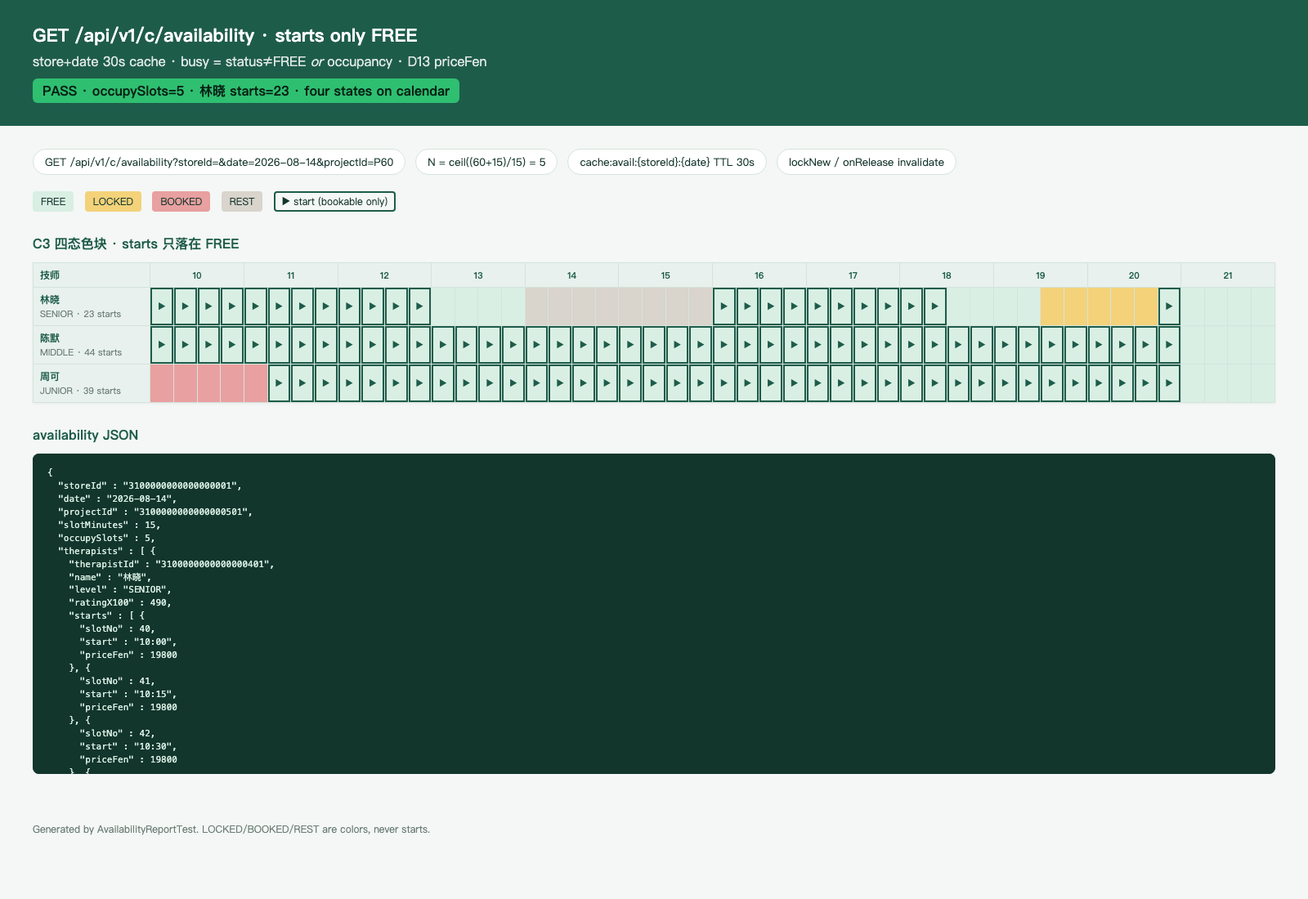
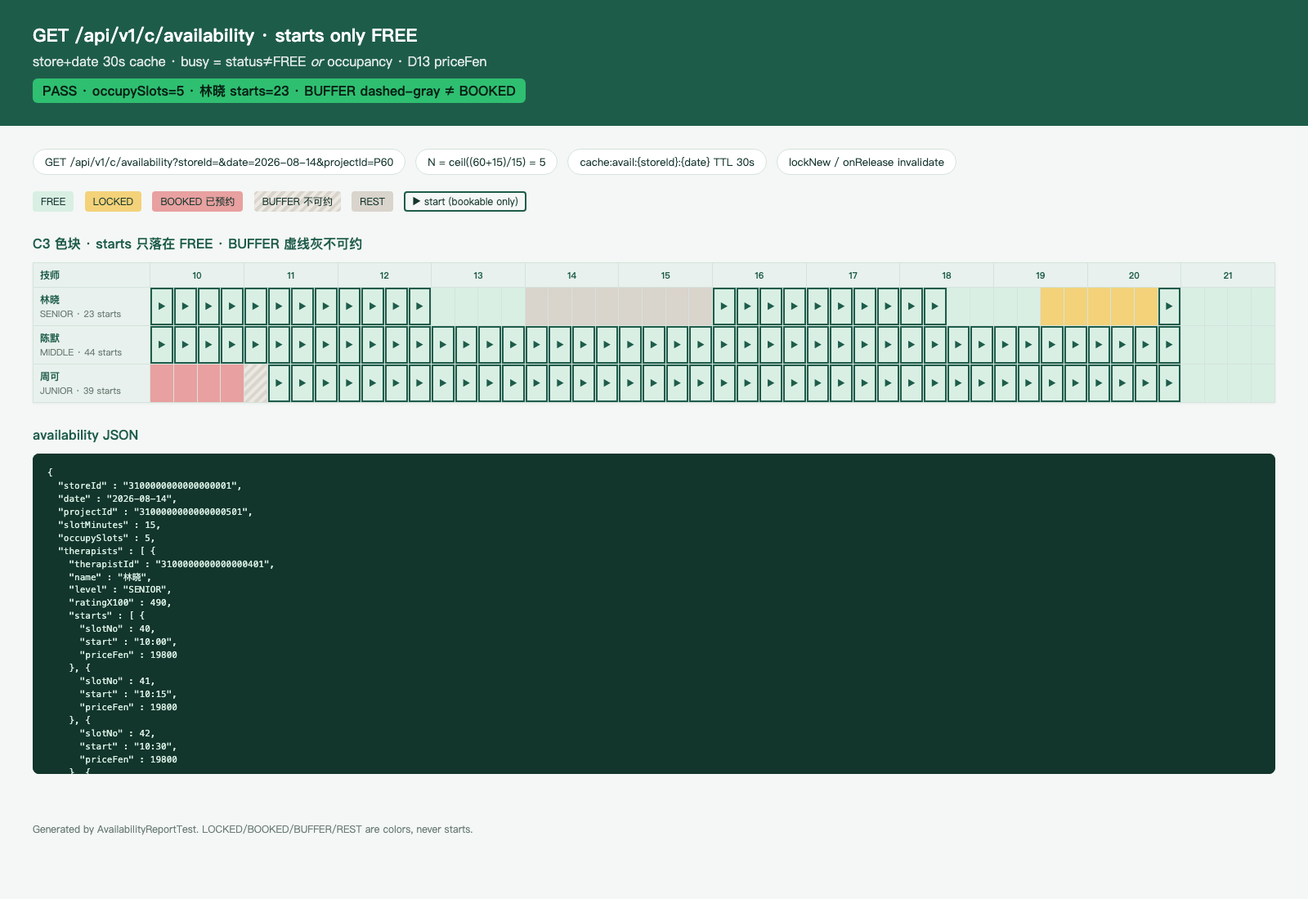
fix: address review feedback for feat(inventory): availability
Cache-aside: invalidate bumps a per-key generation so an in-flight miss
cannot put a pre-lock snapshot back. BUFFER stays BUFFER (dashed-gray
不可约), never remapped to BOOKED.

diff --git a/docs/test-cases/pr-3d-availability.html b/docs/test-cases/pr-3d-availability.html
@@ -29,6 +29,8 @@
     td.locked { background:#f3d27a; }
     td.booked { background:#e8a0a0; }
     td.rest { background:#d9d4cc; }
+    td.buffer { background:repeating-linear-gradient(135deg,#d9d4cc 0 4px,#ece8e2 4px 8px);
+                color:#6b7c75; }
     td.start { box-shadow:inset 0 0 0 2px #1E5C4A; font-weight:700; color:#1E5C4A; }
     .legend span { display:inline-block; padding:4px 10px; margin-right:8px;
                    border-radius:4px; font-size:12px; }
@@ -36,6 +38,7 @@
     .legend .locked { background:#f3d27a; }
     .legend .booked { background:#e8a0a0; }
     .legend .rest { background:#d9d4cc; }
+    .legend .buffer { background:repeating-linear-gradient(135deg,#d9d4cc 0 4px,#ece8e2 4px 8px); }
     .legend .start { box-shadow:inset 0 0 0 2px #1E5C4A; }
     pre { background:#12352c; color:#d9efe4; padding:16px 18px; border-radius:8px;
           overflow:auto; font-size:11px; line-height:1.45; max-height:360px; }
@@ -46,7 +49,7 @@
   <header>
     <h1>GET /api/v1/c/availability · starts only FREE</h1>
     <p>store+date 30s cache · busy = status≠FREE <em>or</em> occupancy · D13 priceFen</p>
-    <span class="badge">PASS · occupySlots=5 · 林晓 starts=23 · four states on calendar</span>
+    <span class="badge">PASS · occupySlots=5 · 林晓 starts=23 · BUFFER dashed-gray ≠ BOOKED</span>
   </header>
   <main>
     <div class="meta">
@@ -58,11 +61,12 @@
     <p class="legend">
       <span class="free">FREE</span>
       <span class="locked">LOCKED</span>
-      <span class="booked">BOOKED</span>
+      <span class="booked">BOOKED 已预约</span>
+      <span class="buffer">BUFFER 不可约</span>
       <span class="rest">REST</span>
       <span class="start">▶ start (bookable only)</span>
     </p>
-    <h2>C3 四态色块 · starts 只落在 FREE</h2>
+    <h2>C3 色块 · starts 只落在 FREE · BUFFER 虚线灰不可约</h2>
     <table class="cal">
       <thead>
         <tr><th>技师</th><th colspan='4'>10</th><th colspan='4'>11</th><th colspan='4'>12</th><th colspan='4'>13</th><th colspan='4'>14</th><th colspan='4'>15</th><th colspan='4'>16</th><th colspan='4'>17</th><th colspan='4'>18</th><th colspan='4'>19</th><th colspan='4'>20</th><th colspan='4'>21</th></tr>
@@ -70,7 +74,7 @@
       <tbody>
 <tr><th>林晓<br/><span class='sub'>SENIOR · 23 starts</span></th><td class='free start' title='40 FREE'>▶</td><td class='free start' title='41 FREE'>▶</td><td class='free start' title='42 FREE'>▶</td><td class='free start' title='43 FREE'>▶</td><td class='free start' title='44 FREE'>▶</td><td class='free start' title='45 FREE'>▶</td><td class='free start' title='46 FREE'>▶</td><td class='free start' title='47 FREE'>▶</td><td class='free start' title='48 FREE'>▶</td><td class='free start' title='49 FREE'>▶</td><td class='free start' title='50 FREE'>▶</td><td class='free start' title='51 FREE'>▶</td><td class='free' title='52 FREE'></td><td class='free' title='53 FREE'></td><td class='free' title='54 FREE'></td><td class='free' title='55 FREE'></td><td class='rest' title='56 REST'></td><td class='rest' title='57 REST'></td><td class='rest' title='58 REST'></td><td class='rest' title='59 REST'></td><td class='rest' title='60 REST'></td><td class='rest' title='61 REST'></td><td class='rest' title='62 REST'></td><td class='rest' title='63 REST'></td><td class='free start' title='64 FREE'>▶</td><td class='free start' title='65 FREE'>▶</td><td class='free start' title='66 FREE'>▶</td><td class='free start' title='67 FREE'>▶</td><td class='free start' title='68 FREE'>▶</td><td class='free start' title='69 FREE'>▶</td><td class='free start' title='70 FREE'>▶</td><td class='free start' title='71 FREE'>▶</td><td class='free start' title='72 FREE'>▶</td><td class='free start' title='73 FREE'>▶</td><td class='free' title='74 FREE'></td><td class='free' title='75 FREE'></td><td class='free' title='76 FREE'></td><td class='free' title='77 FREE'></td><td class='locked' title='78 LOCKED'></td><td class='locked' title='79 LOCKED'></td><td class='locked' title='80 LOCKED'></td><td class='locked' title='81 LOCKED'></td><td class='locked' title='82 LOCKED'></td><td class='free start' title='83 FREE'>▶</td><td class='free' title='84 FREE'></td><td class='free' title='85 FREE'></td><td class='free' title='86 FREE'></td><td class='free' title='87 FREE'></td></tr>
 <tr><th>陈默<br/><span class='sub'>MIDDLE · 44 starts</span></th><td class='free start' title='40 FREE'>▶</td><td class='free start' title='41 FREE'>▶</td><td class='free start' title='42 FREE'>▶</td><td class='free start' title='43 FREE'>▶</td><td class='free start' title='44 FREE'>▶</td><td class='free start' title='45 FREE'>▶</td><td class='free start' title='46 FREE'>▶</td><td class='free start' title='47 FREE'>▶</td><td class='free start' title='48 FREE'>▶</td><td class='free start' title='49 FREE'>▶</td><td class='free start' title='50 FREE'>▶</td><td class='free start' title='51 FREE'>▶</td><td class='free start' title='52 FREE'>▶</td><td class='free start' title='53 FREE'>▶</td><td class='free start' title='54 FREE'>▶</td><td class='free start' title='55 FREE'>▶</td><td class='free start' title='56 FREE'>▶</td><td class='free start' title='57 FREE'>▶</td><td class='free start' title='58 FREE'>▶</td><td class='free start' title='59 FREE'>▶</td><td class='free start' title='60 FREE'>▶</td><td class='free start' title='61 FREE'>▶</td><td class='free start' title='62 FREE'>▶</td><td class='free start' title='63 FREE'>▶</td><td class='free start' title='64 FREE'>▶</td><td class='free start' title='65 FREE'>▶</td><td class='free start' title='66 FREE'>▶</td><td class='free start' title='67 FREE'>▶</td><td class='free start' title='68 FREE'>▶</td><td class='free start' title='69 FREE'>▶</td><td class='free start' title='70 FREE'>▶</td><td class='free start' title='71 FREE'>▶</td><td class='free start' title='72 FREE'>▶</td><td class='free start' title='73 FREE'>▶</td><td class='free start' title='74 FREE'>▶</td><td class='free start' title='75 FREE'>▶</td><td class='free start' title='76 FREE'>▶</td><td class='free start' title='77 FREE'>▶</td><td class='free start' title='78 FREE'>▶</td><td class='free start' title='79 FREE'>▶</td><td class='free start' title='80 FREE'>▶</td><td class='free start' title='81 FREE'>▶</td><td class='free start' title='82 FREE'>▶</td><td class='free start' title='83 FREE'>▶</td><td class='free' title='84 FREE'></td><td class='free' title='85 FREE'></td><td class='free' title='86 FREE'></td><td class='free' title='87 FREE'></td></tr>
-<tr><th>周可<br/><span class='sub'>JUNIOR · 39 starts</span></th><td class='booked' title='40 BOOKED'></td><td class='booked' title='41 BOOKED'></td><td class='booked' title='42 BOOKED'></td><td class='booked' title='43 BOOKED'></td><td class='booked' title='44 BOOKED'></td><td class='free start' title='45 FREE'>▶</td><td class='free start' title='46 FREE'>▶</td><td class='free start' title='47 FREE'>▶</td><td class='free start' title='48 FREE'>▶</td><td class='free start' title='49 FREE'>▶</td><td class='free start' title='50 FREE'>▶</td><td class='free start' title='51 FREE'>▶</td><td class='free start' title='52 FREE'>▶</td><td class='free start' title='53 FREE'>▶</td><td class='free start' title='54 FREE'>▶</td><td class='free start' title='55 FREE'>▶</td><td class='free start' title='56 FREE'>▶</td><td class='free start' title='57 FREE'>▶</td><td class='free start' title='58 FREE'>▶</td><td class='free start' title='59 FREE'>▶</td><td class='free start' title='60 FREE'>▶</td><td class='free start' title='61 FREE'>▶</td><td class='free start' title='62 FREE'>▶</td><td class='free start' title='63 FREE'>▶</td><td class='free start' title='64 FREE'>▶</td><td class='free start' title='65 FREE'>▶</td><td class='free start' title='66 FREE'>▶</td><td class='free start' title='67 FREE'>▶</td><td class='free start' title='68 FREE'>▶</td><td class='free start' title='69 FREE'>▶</td><td class='free start' title='70 FREE'>▶</td><td class='free start' title='71 FREE'>▶</td><td class='free start' title='72 FREE'>▶</td><td class='free start' title='73 FREE'>▶</td><td class='free start' title='74 FREE'>▶</td><td class='free start' title='75 FREE'>▶</td><td class='free start' title='76 FREE'>▶</td><td class='free start' title='77 FREE'>▶</td><td class='free start' title='78 FREE'>▶</td><td class='free start' title='79 FREE'>▶</td><td class='free start' title='80 FREE'>▶</td><td class='free start' title='81 FREE'>▶</td><td class='free start' title='82 FREE'>▶</td><td class='free start' title='83 FREE'>▶</td><td class='free' title='84 FREE'></td><td class='free' title='85 FREE'></td><td class='free' title='86 FREE'></td><td class='free' title='87 FREE'></td></tr>
+<tr><th>周可<br/><span class='sub'>JUNIOR · 39 starts</span></th><td class='booked' title='40 BOOKED'></td><td class='booked' title='41 BOOKED'></td><td class='booked' title='42 BOOKED'></td><td class='booked' title='43 BOOKED'></td><td class='buffer' title='44 BUFFER'></td><td class='free start' title='45 FREE'>▶</td><td class='free start' title='46 FREE'>▶</td><td class='free start' title='47 FREE'>▶</td><td class='free start' title='48 FREE'>▶</td><td class='free start' title='49 FREE'>▶</td><td class='free start' title='50 FREE'>▶</td><td class='free start' title='51 FREE'>▶</td><td class='free start' title='52 FREE'>▶</td><td class='free start' title='53 FREE'>▶</td><td class='free start' title='54 FREE'>▶</td><td class='free start' title='55 FREE'>▶</td><td class='free start' title='56 FREE'>▶</td><td class='free start' title='57 FREE'>▶</td><td class='free start' title='58 FREE'>▶</td><td class='free start' title='59 FREE'>▶</td><td class='free start' title='60 FREE'>▶</td><td class='free start' title='61 FREE'>▶</td><td class='free start' title='62 FREE'>▶</td><td class='free start' title='63 FREE'>▶</td><td class='free start' title='64 FREE'>▶</td><td class='free start' title='65 FREE'>▶</td><td class='free start' title='66 FREE'>▶</td><td class='free start' title='67 FREE'>▶</td><td class='free start' title='68 FREE'>▶</td><td class='free start' title='69 FREE'>▶</td><td class='free start' title='70 FREE'>▶</td><td class='free start' title='71 FREE'>▶</td><td class='free start' title='72 FREE'>▶</td><td class='free start' title='73 FREE'>▶</td><td class='free start' title='74 FREE'>▶</td><td class='free start' title='75 FREE'>▶</td><td class='free start' title='76 FREE'>▶</td><td class='free start' title='77 FREE'>▶</td><td class='free start' title='78 FREE'>▶</td><td class='free start' title='79 FREE'>▶</td><td class='free start' title='80 FREE'>▶</td><td class='free start' title='81 FREE'>▶</td><td class='free start' title='82 FREE'>▶</td><td class='free start' title='83 FREE'>▶</td><td class='free' title='84 FREE'></td><td class='free' title='85 FREE'></td><td class='free' title='86 FREE'></td><td class='free' title='87 FREE'></td></tr>
       </tbody>
     </table>
     <h2>availability JSON</h2>
@@ -927,7 +931,7 @@
     }, {
       "slotNo" : 44,
       "start" : "11:00",
-      "state" : "BOOKED"
+      "state" : "BUFFER"
     }, {
       "slotNo" : 45,
       "start" : "11:15",
@@ -1104,6 +1108,6 @@
   } ]
 }</pre>
   </main>
-  <footer>Generated by AvailabilityReportTest. LOCKED/BOOKED/REST are colors, never starts.</footer>
+  <footer>Generated by AvailabilityReportTest. LOCKED/BOOKED/BUFFER/REST are colors, never starts.</footer>
 </body>
 </html>

diff --git a/server/src/test/java/com/jisuodashi/inventory/AvailabilityReportTest.java b/server/src/test/java/com/jisuodashi/inventory/AvailabilityReportTest.java
@@ -45,7 +45,7 @@ class AvailabilityReportTest {
                 .map(AvailabilityDtos.Block::state)
                 .distinct()
                 .toList())
-                .contains(SlotStatus.FREE, SlotStatus.LOCKED, SlotStatus.BOOKED, SlotStatus.REST);
+                .contains(SlotStatus.FREE, SlotStatus.LOCKED, SlotStatus.BOOKED, SlotStatus.REST, SlotStatus.BUFFER);
 
         ObjectMapper json = new ObjectMapper().enable(SerializationFeature.INDENT_OUTPUT);
         String pretty = json.writeValueAsString(body);
@@ -60,7 +60,7 @@ class AvailabilityReportTest {
         Files.createDirectories(resolveTargetDir());
         Files.writeString(resolveTargetDir().resolve("pr-3d-availability.html"), html, StandardCharsets.UTF_8);
         assertThat(report).exists();
-        assertThat(html).contains("FREE").contains("LOCKED").contains("BOOKED").contains("REST");
+        assertThat(html).contains("FREE").contains("LOCKED").contains("BOOKED").contains("REST").contains("BUFFER");
         assertThat(html).contains("10:00").contains("20:45").contains("starts");
     }
 
@@ -131,6 +131,8 @@ class AvailabilityReportTest {
                     td.locked { background:#f3d27a; }
                     td.booked { background:#e8a0a0; }
                     td.rest { background:#d9d4cc; }
+                    td.buffer { background:repeating-linear-gradient(135deg,#d9d4cc 0 4px,#ece8e2 4px 8px);
+                                color:#6b7c75; }
                     td.start { box-shadow:inset 0 0 0 2px #1E5C4A; font-weight:700; color:#1E5C4A; }
                     .legend span { display:inline-block; padding:4px 10px; margin-right:8px;
                                    border-radius:4px; font-size:12px; }
@@ -138,6 +140,7 @@ class AvailabilityReportTest {
                     .legend .locked { background:#f3d27a; }
                     .legend .booked { background:#e8a0a0; }
                     .legend .rest { background:#d9d4cc; }
+                    .legend .buffer { background:repeating-linear-gradient(135deg,#d9d4cc 0 4px,#ece8e2 4px 8px); }
                     .legend .start { box-shadow:inset 0 0 0 2px #1E5C4A; }
                     pre { background:#12352c; color:#d9efe4; padding:16px 18px; border-radius:8px;
                           overflow:auto; font-size:11px; line-height:1.45; max-height:360px; }
@@ -148,7 +151,7 @@ class AvailabilityReportTest {
                   <header>
                     <h1>GET /api/v1/c/availability · starts only FREE</h1>
                     <p>store+date 30s cache · busy = status≠FREE <em>or</em> occupancy · D13 priceFen</p>
-                    <span class="badge">PASS · occupySlots=__N__ · 林晓 starts=__LIN__ · four states on calendar</span>
+                    <span class="badge">PASS · occupySlots=__N__ · 林晓 starts=__LIN__ · BUFFER dashed-gray ≠ BOOKED</span>
                   </header>
                   <main>
                     <div class="meta">
@@ -160,11 +163,12 @@ class AvailabilityReportTest {
                     <p class="legend">
                       <span class="free">FREE</span>
                       <span class="locked">LOCKED</span>
-                      <span class="booked">BOOKED</span>
+                      <span class="booked">BOOKED 已预约</span>
+                      <span class="buffer">BUFFER 不可约</span>
                       <span class="rest">REST</span>
                       <span class="start">▶ start (bookable only)</span>
                     </p>
-                    <h2>C3 四态色块 · starts 只落在 FREE</h2>
+                    <h2>C3 色块 · starts 只落在 FREE · BUFFER 虚线灰不可约</h2>
                     <table class="cal">
                       <thead>
                         <tr><th>技师</th>__HOURS__</tr>
@@ -175,7 +179,7 @@ class AvailabilityReportTest {
                     <h2>availability JSON</h2>
                     <pre>__JSON__</pre>
                   </main>
-                  <footer>Generated by AvailabilityReportTest. LOCKED/BOOKED/REST are colors, never starts.</footer>
+                  <footer>Generated by AvailabilityReportTest. LOCKED/BOOKED/BUFFER/REST are colors, never starts.</footer>
                 </body>
                 </html>
                 """

diff --git a/server/src/test/java/com/jisuodashi/inventory/AvailabilityCacheTest.java b/server/src/test/java/com/jisuodashi/inventory/AvailabilityCacheTest.java
@@ -11,6 +11,8 @@ import java.time.Instant;
 import java.time.LocalDate;
 import java.time.ZoneOffset;
 import java.util.List;
+import java.util.concurrent.CountDownLatch;
+import java.util.concurrent.TimeUnit;
 import java.util.concurrent.atomic.AtomicInteger;
 import java.util.concurrent.atomic.AtomicReference;
 
@@ -121,6 +123,39 @@ class AvailabilityCacheTest {
         svc.invalidate(STORE, DAY);
         List<Integer> fresh = starts(svc);
         assertThat(fresh).doesNotContain(78);
+    }
+
+    @Test
+    void invalidateBumpsGenerationAndDropsInFlightPut() throws Exception {
+        AvailabilityCache cache = new AvailabilityCache(Duration.ofSeconds(30), Clock.systemUTC());
+        CountDownLatch loading = new CountDownLatch(1);
+        CountDownLatch release = new CountDownLatch(1);
+        AvailabilityDay stale = emptyDay();
+        Thread inflight = new Thread(() -> cache.get(STORE, DAY, () -> {
+            loading.countDown();
+            try {
+                if (!release.await(5, TimeUnit.SECONDS)) {
+                    throw new IllegalStateException("release timeout");
+                }
+            } catch (InterruptedException e) {
+                Thread.currentThread().interrupt();
+                throw new IllegalStateException(e);
+            }
+            return stale;
+        }));
+        inflight.start();
+        assertThat(loading.await(5, TimeUnit.SECONDS)).isTrue();
+        long before = cache.generation(STORE, DAY);
+        cache.invalidate(STORE, DAY);
+        assertThat(cache.generation(STORE, DAY)).isGreaterThan(before);
+        release.countDown();
+        inflight.join(5_000);
+        assertThat(cache.contains(STORE, DAY)).isFalse();
+
+        AvailabilityDay next = emptyDay();
+        AvailabilityDay got = cache.get(STORE, DAY, () -> next);
+        assertThat(got).isSameAs(next);
+        assertThat(cache.contains(STORE, DAY)).isTrue();
     }
 
     private static List<Integer> starts(AvailabilityService svc) {

diff --git a/server/src/main/java/com/jisuodashi/inventory/AvailabilityCache.java b/server/src/main/java/com/jisuodashi/inventory/AvailabilityCache.java
@@ -13,6 +13,7 @@ import java.time.LocalDate;
 import java.util.HashSet;
 import java.util.Set;
 import java.util.concurrent.ConcurrentHashMap;
+import java.util.concurrent.atomic.AtomicLong;
 import java.util.concurrent.atomic.LongAdder;
 import java.util.function.Supplier;
 
@@ -30,6 +31,7 @@ public class AvailabilityCache {
     private final Clock clock;
     private final StringRedisTemplate redis;
     private final ConcurrentHashMap<String, Entry> map = new ConcurrentHashMap<>();
+    private final ConcurrentHashMap<String, AtomicLong> generations = new ConcurrentHashMap<>();
     private final LongAdder hits = new LongAdder();
     private final LongAdder misses = new LongAdder();
 
@@ -61,15 +63,32 @@ public class AvailabilityCache {
             return hit.value;
         }
         misses.increment();
+        long stamp = generationOf(key);
         AvailabilityDay loaded = loader.get();
-        map.put(key, new Entry(loaded, now + ttl.toMillis()));
+        // Invalidate during load: do not put the pre-write snapshot back.
+        map.compute(key, (k, existing) -> {
+            if (generationOf(k) != stamp) {
+                return existing;
+            }
+            return new Entry(loaded, clock.millis() + ttl.toMillis());
+        });
         return loaded;
     }
 
     /** Drop this store+date (all project/therapist views share the key). */
     public void invalidate(long storeId, LocalDate date) {
-        map.remove(key(storeId, date));
+        String key = key(storeId, date);
+        generations.computeIfAbsent(key, k -> new AtomicLong()).incrementAndGet();
+        map.remove(key);
         evictRedis(storeId, date);
+    }
+
+    long generation(long storeId, LocalDate date) {
+        return generationOf(key(storeId, date));
+    }
+
+    private long generationOf(String key) {
+        return generations.computeIfAbsent(key, k -> new AtomicLong()).get();
     }
 
     public boolean contains(long storeId, LocalDate date) {

diff --git a/server/src/test/java/com/jisuodashi/inventory/AvailabilityServiceTest.java b/server/src/test/java/com/jisuodashi/inventory/AvailabilityServiceTest.java
@@ -54,6 +54,7 @@ class AvailabilityServiceTest {
         AvailabilityDtos.Therapist zhou = therapist(res, T3);
         assertThat(zhou.starts().stream().map(AvailabilityDtos.Start::slotNo)).doesNotContain(40, 41, 42, 43, 44);
         assertThat(stateAt(zhou, 40)).isEqualTo(SlotStatus.BOOKED);
+        assertThat(stateAt(zhou, 44)).isEqualTo(SlotStatus.BUFFER);
         assertThat(zhou.starts().getFirst().slotNo()).isEqualTo(45);
 
         AvailabilityDtos.Therapist lin = therapist(res, T1);
@@ -102,6 +103,24 @@ class AvailabilityServiceTest {
         assertThat(after.therapists().getFirst().starts())
                 .extracting(AvailabilityDtos.Start::slotNo)
                 .containsExactly(78);
+    }
+
+    @Test
+    void bufferIsDashedGrayNotBookedAndNotAStart() {
+        InMemoryAvailabilityStore store = InMemoryAvailabilityStore.blank();
+        store.seedTherapistSlots(T1, DAY, 40, 88, SlotStatus.FREE);
+        store.seedTherapistSlots(T1, DAY, 40, 44, SlotStatus.BOOKED);
+        store.seedTherapistSlots(T1, DAY, 44, 45, SlotStatus.BUFFER);
+        store.seedBedSlots(BED1, DAY, 40, 88, SlotStatus.FREE);
+        store.seedOccupancy(ResourceType.THERAPIST, T1, DAY, 40, 45);
+
+        AvailabilityDtos.Availability res = service(store).query(STORE, DAY, P60, T1, true);
+        AvailabilityDtos.Therapist lin = res.therapists().getFirst();
+        assertThat(stateAt(lin, 43)).isEqualTo(SlotStatus.BOOKED);
+        assertThat(stateAt(lin, 44)).isEqualTo(SlotStatus.BUFFER);
+        assertThat(stateAt(lin, 44)).isNotEqualTo(SlotStatus.BOOKED);
+        assertThat(lin.starts().stream().map(AvailabilityDtos.Start::slotNo)).doesNotContain(40, 44);
+        assertThat(lin.starts().getFirst().slotNo()).isEqualTo(45);
     }
 
     @Test

diff --git a/server/src/main/java/com/jisuodashi/inventory/InMemoryAvailabilityStore.java b/server/src/main/java/com/jisuodashi/inventory/InMemoryAvailabilityStore.java
@@ -88,7 +88,7 @@ public class InMemoryAvailabilityStore implements AvailabilityStore {
         bedSlots.put(bkey(bedId, date, slotNo), new BedSlotView(bedId, slotNo, status));
     }
 
-    /** 林晓 REST+LOCKED, 周可 BOOKED, 陈默 FREE — four colors, starts only on FREE. */
+    /** 林晓 REST+LOCKED, 周可 BOOKED+BUFFER, 陈默 FREE — starts only on FREE. */
     public final void seedFourStatesDemo() {
         therapistSlots.clear();
         bedSlots.clear();
@@ -104,7 +104,8 @@ public class InMemoryAvailabilityStore implements AvailabilityStore {
         seedTherapistSlots(t2, DEMO_DATE, OPEN, CLOSE, SlotStatus.FREE);
 
         seedTherapistSlots(t3, DEMO_DATE, OPEN, CLOSE, SlotStatus.FREE);
-        seedTherapistSlots(t3, DEMO_DATE, 40, 45, SlotStatus.BOOKED);
+        seedTherapistSlots(t3, DEMO_DATE, 40, 44, SlotStatus.BOOKED);
+        seedTherapistSlots(t3, DEMO_DATE, 44, 45, SlotStatus.BUFFER);
         seedOccupancy(ResourceType.THERAPIST, t3, DEMO_DATE, 40, 45);
 
         seedBedSlots(BED1, DEMO_DATE, OPEN, CLOSE, SlotStatus.FREE);
@@ -112,7 +113,8 @@ public class InMemoryAvailabilityStore implements AvailabilityStore {
         seedOccupancy(ResourceType.BED, BED1, DEMO_DATE, 78, 83);
 
         seedBedSlots(BED2, DEMO_DATE, OPEN, CLOSE, SlotStatus.FREE);
-        seedBedSlots(BED2, DEMO_DATE, 40, 45, SlotStatus.BOOKED);
+        seedBedSlots(BED2, DEMO_DATE, 40, 44, SlotStatus.BOOKED);
+        seedBedSlots(BED2, DEMO_DATE, 44, 45, SlotStatus.BUFFER);
         seedOccupancy(ResourceType.BED, BED2, DEMO_DATE, 40, 45);
     }
 

diff --git a/server/src/test/java/com/jisuodashi/inventory/AvailabilityApiTest.java b/server/src/test/java/com/jisuodashi/inventory/AvailabilityApiTest.java
@@ -91,8 +91,13 @@ class AvailabilityApiTest {
                 .orElseThrow();
         @SuppressWarnings("unchecked")
         List<Map<String, Object>> zhouBlocks = (List<Map<String, Object>>) zhou.get("blocks");
-        assertThat(zhouBlocks).extracting(b -> b.get("state")).contains(SlotStatus.BOOKED);
-        assertThat(starts(zhou).stream().map(s -> s.get("slotNo"))).doesNotContain(40);
+        assertThat(zhouBlocks).extracting(b -> b.get("state"))
+                .contains(SlotStatus.BOOKED, SlotStatus.BUFFER);
+        assertThat(zhouBlocks.stream()
+                .filter(b -> Integer.valueOf(44).equals(b.get("slotNo")))
+                .map(b -> b.get("state")))
+                .containsExactly(SlotStatus.BUFFER);
+        assertThat(starts(zhou).stream().map(s -> s.get("slotNo"))).doesNotContain(40, 44);
     }
 
     @Test

diff --git a/server/src/main/java/com/jisuodashi/inventory/AvailabilityDay.java b/server/src/main/java/com/jisuodashi/inventory/AvailabilityDay.java
@@ -108,12 +108,9 @@ public final class AvailabilityDay {
 
     /**
      * Calendar color. Occupancy on a FREE row is treated as LOCKED (not a start).
-     * BUFFER paints as BOOKED so C3 stays on the four states.
+     * BUFFER stays BUFFER — dashed-gray 不可约, never 已预约 BOOKED (§2.2).
      */
     public static String blockState(String status, boolean occupied) {
-        if (SlotStatus.BUFFER.equals(status)) {
-            return SlotStatus.BOOKED;
-        }
         if (SlotStatus.FREE.equals(status) && occupied) {
             return SlotStatus.LOCKED;
         }

diff --git a/docs/test-cases/pr-3d.md b/docs/test-cases/pr-3d.md
@@ -1,6 +1,6 @@
 # PR3d 测试用例 — feat(inventory): availability cache and busy-or-occupancy
 
-环境：macOS aarch64，`JAVA_HOME=/opt/homebrew/opt/openjdk@21`（21.0.12），Maven 3.9.16。无 Docker。H2 **不能**执行 V1 MySQL DDL，可约查询用内存仓；`dev` 的 `InMemoryAvailabilityStore` 预置 2026-08-14 四态日。缓存 30s、键 `storeId+date`（内存）；`lockNew` / `onRelease` 写成功后失效。
+环境：macOS aarch64，`JAVA_HOME=/opt/homebrew/opt/openjdk@21`（21.0.12），Maven 3.9.16。无 Docker。H2 **不能**执行 V1 MySQL DDL，可约查询用内存仓；`dev` 的 `InMemoryAvailabilityStore` 预置 2026-08-14 日（FREE/LOCKED/BOOKED/BUFFER/REST）。缓存 30s、键 `storeId+date`（内存，invalidate 升 generation 防 in-flight 回写）；`lockNew` / `onRelease` 写成功后失效。
 
 ## TC-3d-01 可约起点 = N 连格技师闲 ∧ 某床闲
 
@@ -11,8 +11,8 @@
 ## TC-3d-02 `starts[]` 只含 FREE 可约，不列 LOCKED/BOOKED
 
 - **步骤**：`lockedAndBookedAreNeverStarts` + `GET …&includeBusy=1`。
-- **预期**：LOCKED / BOOKED / REST 只出现在 `blocks[]`（色块）；`starts` 无 `state` 字段。周可 10:00 BOOKED，最早起点 45（11:15）。
-- **实际结果**：PASS。`AvailabilityApiTest.includeBusyShowsFourStatesAndLockedIsNotAStart`。
+- **预期**：LOCKED / BOOKED / BUFFER / REST 只出现在 `blocks[]`；`starts` 无 `state`。周可 10:00 BOOKED、11:00 BUFFER（虚线灰不可约，≠ 已预约），最早起点 45。
+- **实际结果**：PASS。`lockedAndBookedAreNeverStarts` + `bufferIsDashedGrayNotBookedAndNotAStart`。
 
 ## TC-3d-03 busy-or-occupancy：status≠FREE **或** 有 occupancy 即忙
 
@@ -27,8 +27,9 @@
   2. 改格但不 `invalidate` → 仍返回旧 `starts`。
   3. `lockNew` / `onRelease` 后缓存 miss。
   4. 时钟 +31s 自动过期。
-- **预期**：TTL 30s；键不含 project/therapist；`SlotOccupyService.lockNew` 的 `finally` 与 `onRelease` 都 `DEL cache:avail:{storeId}:{date}:*`（内存 + Redis scan）。
-- **实际结果**：PASS。`AvailabilityCacheTest` 3/3；`AvailabilityApiTest.queryStartsAreBookableOnlyAndCacheHitsStoreDate` 第二次 `hits++`。
+  5. miss 加载中途 `invalidate`：in-flight 结果不得 `put` 回缓存。
+- **预期**：TTL 30s；键不含 project/therapist；invalidate 先 bump generation 再 `remove`；`lockNew` / `onRelease` 都失效。
+- **实际结果**：PASS。`AvailabilityCacheTest` 4/4（含 `invalidateBumpsGenerationAndDropsInFlightPut`）。
 
 ## TC-3d-05 定价 D13
 
@@ -45,7 +46,7 @@
 ## TC-3d-07 四态日历截图
 
 - **步骤**：`AvailabilityReportTest` 写 [pr-3d-availability.html](pr-3d-availability.html)；Chrome headless 截图。
-- **预期**：林晓 FREE / REST / LOCKED + 20:45 起点；周可 10:00 BOOKED；`starts` 只落在 FREE。JSON 含 `priceFen`。
+- **预期**：林晓 FREE / REST / LOCKED + 20:45 起点；周可 BOOKED + BUFFER 虚线灰；`starts` 只落在 FREE。JSON 含 `priceFen`。
 - **实际结果**：PASS。
 
 ![availability calendar + JSON](screenshots/pr-3d-availability.png)
@@ -54,4 +55,4 @@
 
 - **步骤**：`export JAVA_HOME=/opt/homebrew/opt/openjdk@21; export PATH="$JAVA_HOME/bin:$PATH"`；`mvn -f server/pom.xml test`。
 - **预期**：生成 / lockNew / 登录 / 目录 / RBAC / schema 仍过。
-- **实际结果**：PASS。Surefire：`Tests run: 135, Failures: 0, Errors: 0, Skipped: 0`。
+- **实际结果**：PASS。Surefire：`Tests run: 137, Failures: 0, Errors: 0, Skipped: 0`。
